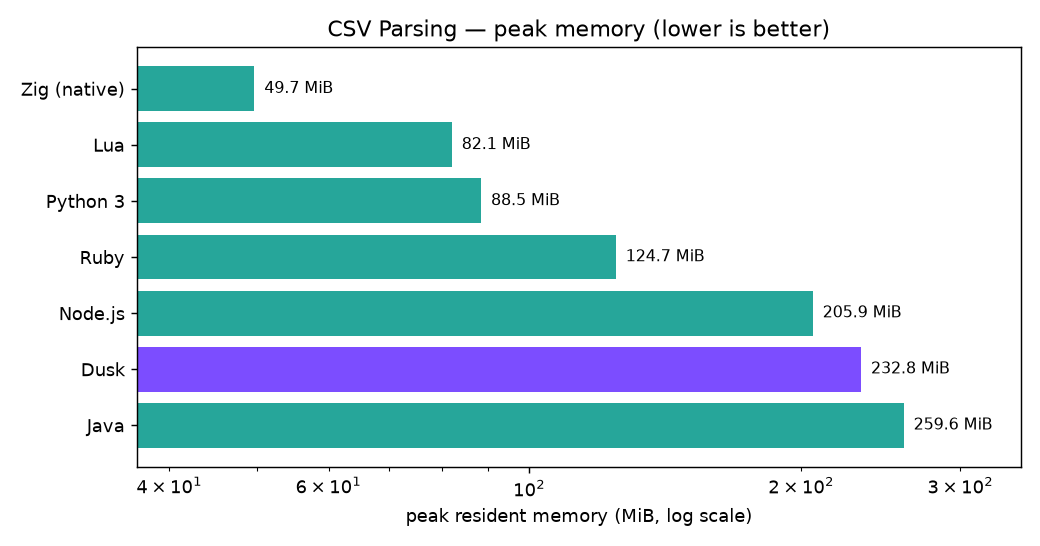
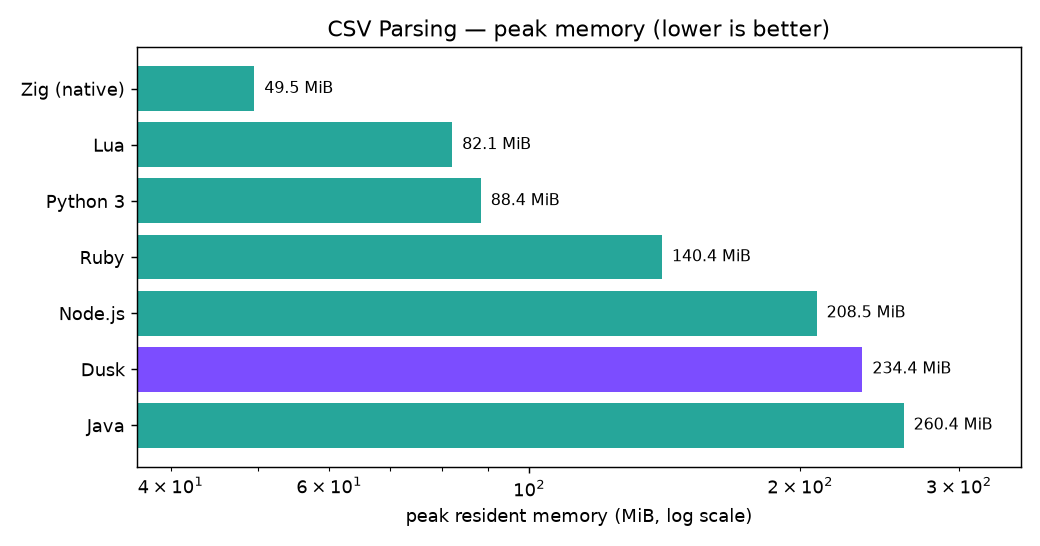
benchmark: regenerate report for v0.15

diff --git a/benchmarks/benchmark.md b/benchmarks/benchmark.md
@@ -7,33 +7,31 @@ Regenerate this file with:
 
 ```bash
 python3 run_benchmarks.py
+
 ```
-
-> **Note:** This benchmark generation script and the algorithms were AI-generated. I haven't deeply reviewed them, so they may contain errors.
-
 ## Machine
 
 | Field | Value |
 | --- | --- |
 | OS | Fedora Linux 44 (Workstation Edition) |
-| Kernel | Linux 7.2.13-200.fc44.x86_64 |
+| Kernel | Linux 7.3.3-200.fc44.x86_64 |
 | Architecture | x86_64 |
 | CPU | AMD Ryzen 5 5600X 6-Core Processor |
 | Cores / Threads | 6 cores / 12 threads |
 | CPU max | 4.65 GHz |
 | Memory | 31.2 GiB total |
-| Date | 2026-11-08 06:55 UTC |
+| Date | 2026-11-15 02:40 UTC |
 
 ## Language toolchains
 
 | Language | Version / mode |
 | --- | --- |
-| **Dusk** | **0.14.0 (git 827ef83) — built with Zig 0.16.0, ReleaseFast** |
+| **Dusk** | **0.15.0 (git 8fe5154) — built with Zig 0.16.0, ReleaseFast** |
 | Zig (native) | 0.16.0 — native baseline, build-exe -OReleaseFast |
-| Java | openjdk version 25.0.4.1 2026-08-18 — precompiled with javac, JVM startup included |
+| Java | openjdk version 25.0.5 2026-10-20 — precompiled with javac, JVM startup included |
 | Node.js | v22.23.1 |
-| Python 3 | Python 3.14.8 |
-| Ruby | ruby 4.0.7 (2026-09-15 revision 229531a6cf) +PRISM |
+| Python 3 | Python 3.14.10 |
+| Ruby | ruby 4.0.9 (2026-10-23 revision 3e93b23afc) +PRISM |
 | Lua | Lua 5.4.8  Copyright (C) 1994-2025 Lua.org, PUC-Rio |
 | hyperfine | hyperfine 1.20.0 |
 
@@ -55,13 +53,13 @@ Expected output: `9227465`
 
 | Language | Mean | Std dev | Min | Max | Relative | Peak mem |
 | --- | --- | --- | --- | --- | --- | --- |
-| Zig (native) | 20.2 ms | 504.7 µs | 19.3 ms | 22.4 ms | 1.00× | 0.7 MiB |
-| Java | 48.1 ms | 3.6 ms | 44.6 ms | 69.2 ms | 2.38× | 38.2 MiB |
-| Node.js | 161.4 ms | 7.5 ms | 149.4 ms | 180.8 ms | 7.98× | 58.7 MiB |
-| **Dusk** | **434.7 ms** | **7.5 ms** | **426.4 ms** | **443.9 ms** | **21.50×** | **1.7 MiB** |
-| Lua | 503.3 ms | 12.0 ms | 489.0 ms | 516.9 ms | 24.88× | 2.9 MiB |
-| Ruby | 702.9 ms | 23.8 ms | 678.8 ms | 742.4 ms | 34.75× | 14.4 MiB |
-| Python 3 | 940.9 ms | 34.5 ms | 903.9 ms | 990.9 ms | 46.52× | 9.2 MiB |
+| Zig (native) | 20.3 ms | 724.4 µs | 19.2 ms | 22.8 ms | 1.00× | 0.7 MiB |
+| Java | 44.1 ms | 1.6 ms | 41.1 ms | 48.6 ms | 2.17× | 38.1 MiB |
+| Node.js | 152.4 ms | 7.6 ms | 146.7 ms | 181.1 ms | 7.51× | 58.6 MiB |
+| **Dusk** | **408.5 ms** | **8.3 ms** | **396.3 ms** | **420.5 ms** | **20.13×** | **3.1 MiB** |
+| Lua | 468.0 ms | 5.9 ms | 460.9 ms | 477.3 ms | 23.07× | 2.8 MiB |
+| Ruby | 721.1 ms | 13.3 ms | 704.8 ms | 731.9 ms | 35.54× | 14.3 MiB |
+| Python 3 | 943.9 ms | 25.1 ms | 923.0 ms | 987.5 ms | 46.52× | 9.1 MiB |
 
 ![Recursive Fibonacci](assets/fib.png)
 
@@ -75,13 +73,13 @@ Expected output: `50049`
 
 | Language | Mean | Std dev | Min | Max | Relative | Peak mem |
 | --- | --- | --- | --- | --- | --- | --- |
-| Zig (native) | 6.8 ms | 595.7 µs | 5.8 ms | 9.0 ms | 1.00× | 3.8 MiB |
-| Java | 36.7 ms | 2.8 ms | 31.9 ms | 53.0 ms | 5.40× | 43.8 MiB |
-| Node.js | 168.4 ms | 8.8 ms | 160.1 ms | 196.8 ms | 24.73× | 85.2 MiB |
-| Lua | 272.8 ms | 7.1 ms | 259.6 ms | 282.5 ms | 40.06× | 21.8 MiB |
-| **Dusk** | **889.1 ms** | **74.8 ms** | **799.6 ms** | **969.2 ms** | **130.55×** | **17.1 MiB** |
-| Ruby | 1.544 s | 22.9 ms | 1.514 s | 1.578 s | 226.79× | 30.9 MiB |
-| Python 3 | 1.611 s | 19.2 ms | 1.580 s | 1.632 s | 236.57× | 34.7 MiB |
+| Zig (native) | 6.6 ms | 539.0 µs | 5.7 ms | 10.5 ms | 1.00× | 3.8 MiB |
+| Java | 32.1 ms | 1.7 ms | 30.3 ms | 43.9 ms | 4.86× | 43.8 MiB |
+| Node.js | 151.7 ms | 5.6 ms | 144.1 ms | 171.9 ms | 22.95× | 85.3 MiB |
+| Lua | 265.6 ms | 5.6 ms | 257.9 ms | 273.5 ms | 40.18× | 21.4 MiB |
+| **Dusk** | **508.4 ms** | **18.2 ms** | **488.1 ms** | **534.2 ms** | **76.94×** | **18.7 MiB** |
+| Ruby | 1.532 s | 18.1 ms | 1.513 s | 1.557 s | 231.88× | 30.7 MiB |
+| Python 3 | 1.618 s | 40.8 ms | 1.555 s | 1.660 s | 244.80× | 34.7 MiB |
 
 ![Particle System](assets/particles.png)
 
@@ -95,13 +93,13 @@ Expected output: `9592`
 
 | Language | Mean | Std dev | Min | Max | Relative | Peak mem |
 | --- | --- | --- | --- | --- | --- | --- |
-| Zig (native) | 774.0 µs | 163.7 µs | 609.7 µs | 2.0 ms | 1.00× | 0.8 MiB |
-| Lua | 5.7 ms | 520.3 µs | 4.9 ms | 8.5 ms | 7.40× | 4.7 MiB |
-| **Dusk** | **10.9 ms** | **587.3 µs** | **10.0 ms** | **12.8 ms** | **14.14×** | **3.2 MiB** |
-| Java | 18.3 ms | 1.1 ms | 16.6 ms | 24.5 ms | 23.69× | 38.1 MiB |
-| Python 3 | 25.4 ms | 2.0 ms | 22.9 ms | 36.6 ms | 32.88× | 10.0 MiB |
-| Ruby | 51.1 ms | 3.6 ms | 47.5 ms | 68.3 ms | 66.04× | 15.2 MiB |
-| Node.js | 82.5 ms | 4.5 ms | 76.0 ms | 101.1 ms | 106.56× | 59.5 MiB |
+| Zig (native) | 729.7 µs | 61.4 µs | 591.8 µs | 917.4 µs | 1.00× | 0.8 MiB |
+| Lua | 5.3 ms | 205.3 µs | 4.9 ms | 5.9 ms | 7.24× | 4.8 MiB |
+| **Dusk** | **9.1 ms** | **482.5 µs** | **8.3 ms** | **14.2 ms** | **12.48×** | **4.8 MiB** |
+| Java | 16.4 ms | 526.2 µs | 15.7 ms | 18.7 ms | 22.50× | 38.3 MiB |
+| Python 3 | 23.9 ms | 1.6 ms | 22.3 ms | 32.8 ms | 32.80× | 9.9 MiB |
+| Ruby | 47.6 ms | 2.4 ms | 45.0 ms | 55.8 ms | 65.17× | 15.2 MiB |
+| Node.js | 74.8 ms | 1.5 ms | 72.2 ms | 80.3 ms | 102.44× | 59.7 MiB |
 
 ![Sieve of Eratosthenes](assets/primes.png)
 
@@ -115,13 +113,13 @@ Expected output: `5001`
 
 | Language | Mean | Std dev | Min | Max | Relative | Peak mem |
 | --- | --- | --- | --- | --- | --- | --- |
-| Zig (native) | 727.0 µs | 206.1 µs | 556.7 µs | 2.0 ms | 1.00× | 0.7 MiB |
-| Lua | 3.2 ms | 386.5 µs | 2.8 ms | 5.5 ms | 4.43× | 3.1 MiB |
-| **Dusk** | **5.8 ms** | **585.0 µs** | **5.2 ms** | **10.5 ms** | **8.03×** | **1.7 MiB** |
-| Python 3 | 16.0 ms | 761.7 µs | 14.6 ms | 19.2 ms | 22.02× | 9.7 MiB |
-| Java | 19.0 ms | 1.7 ms | 16.6 ms | 27.4 ms | 26.12× | 38.1 MiB |
-| Ruby | 46.5 ms | 1.3 ms | 43.9 ms | 50.2 ms | 64.01× | 14.7 MiB |
-| Node.js | 83.7 ms | 3.6 ms | 76.0 ms | 89.5 ms | 115.12× | 58.8 MiB |
+| Zig (native) | 685.0 µs | 83.1 µs | 541.4 µs | 2.4 ms | 1.00× | 0.7 MiB |
+| Lua | 3.0 ms | 99.5 µs | 2.8 ms | 4.4 ms | 4.38× | 3.1 MiB |
+| **Dusk** | **5.0 ms** | **164.1 µs** | **4.6 ms** | **5.6 ms** | **7.31×** | **3.2 MiB** |
+| Python 3 | 14.5 ms | 280.9 µs | 14.0 ms | 15.5 ms | 21.10× | 9.5 MiB |
+| Java | 15.9 ms | 559.0 µs | 14.9 ms | 18.1 ms | 23.25× | 38.3 MiB |
+| Ruby | 41.1 ms | 944.7 µs | 40.2 ms | 45.7 ms | 59.97× | 14.4 MiB |
+| Node.js | 72.3 ms | 962.7 µs | 70.7 ms | 74.4 ms | 105.60× | 58.9 MiB |
 
 ![QuickSort](assets/quicksort.png)
 
@@ -135,13 +133,13 @@ Expected output: `141554306`
 
 | Language | Mean | Std dev | Min | Max | Relative | Peak mem |
 | --- | --- | --- | --- | --- | --- | --- |
-| Zig (native) | 313.7 ms | 1.1 ms | 312.2 ms | 316.1 ms | 1.00× | 0.7 MiB |
-| Java | 338.2 ms | 945.0 µs | 336.7 ms | 339.5 ms | 1.08× | 38.6 MiB |
-| Node.js | 399.3 ms | 5.1 ms | 394.2 ms | 408.8 ms | 1.27× | 60.8 MiB |
-| Lua | 4.379 s | 75.0 ms | 4.250 s | 4.435 s | 13.96× | 3.0 MiB |
-| Ruby | 10.053 s | 131.6 ms | 9.923 s | 10.220 s | 32.05× | 14.5 MiB |
-| **Dusk** | **10.703 s** | **186.5 ms** | **10.508 s** | **10.983 s** | **34.12×** | **1.7 MiB** |
-| Python 3 | 39.843 s | 2.531 s | 37.275 s | 42.692 s | 127.01× | 9.4 MiB |
+| Zig (native) | 308.7 ms | 1.1 ms | 306.6 ms | 309.8 ms | 1.00× | 0.7 MiB |
+| Java | 335.1 ms | 3.6 ms | 330.6 ms | 342.6 ms | 1.09× | 38.7 MiB |
+| Node.js | 400.7 ms | 5.8 ms | 392.9 ms | 409.1 ms | 1.30× | 60.9 MiB |
+| Lua | 4.384 s | 71.1 ms | 4.284 s | 4.471 s | 14.20× | 2.8 MiB |
+| **Dusk** | **9.464 s** | **690.2 ms** | **9.082 s** | **10.690 s** | **30.66×** | **3.2 MiB** |
+| Ruby | 9.765 s | 62.6 ms | 9.662 s | 9.834 s | 31.63× | 14.3 MiB |
+| Python 3 | 40.941 s | 3.882 s | 38.254 s | 47.701 s | 132.63× | 9.3 MiB |
 
 ![Mandelbrot](assets/mandelbrot.png)
 
@@ -155,13 +153,13 @@ Expected output: `73037032`
 
 | Language | Mean | Std dev | Min | Max | Relative | Peak mem |
 | --- | --- | --- | --- | --- | --- | --- |
-| Zig (native) | 88.7 ms | 2.2 ms | 85.5 ms | 92.0 ms | 1.00× | 0.7 MiB |
-| **Dusk** | **268.2 ms** | **2.6 ms** | **262.7 ms** | **271.3 ms** | **3.02×** | **3.3 MiB** |
-| Java | 314.7 ms | 6.4 ms | 307.2 ms | 325.3 ms | 3.55× | 286.4 MiB |
-| Node.js | 455.5 ms | 7.1 ms | 448.6 ms | 466.7 ms | 5.13× | 91.0 MiB |
-| Python 3 | 585.0 ms | 14.3 ms | 572.0 ms | 608.1 ms | 6.60× | 9.0 MiB |
-| Ruby | 904.7 ms | 4.9 ms | 899.9 ms | 912.9 ms | 10.20× | 14.6 MiB |
-| Lua | 1.147 s | 18.8 ms | 1.122 s | 1.171 s | 12.93× | 2.7 MiB |
+| Zig (native) | 87.2 ms | 2.9 ms | 84.8 ms | 99.7 ms | 1.00× | 0.7 MiB |
+| **Dusk** | **278.7 ms** | **2.4 ms** | **275.1 ms** | **283.1 ms** | **3.20×** | **5.1 MiB** |
+| Java | 312.2 ms | 8.2 ms | 302.1 ms | 324.1 ms | 3.58× | 285.8 MiB |
+| Node.js | 432.3 ms | 1.5 ms | 430.3 ms | 434.8 ms | 4.96× | 91.2 MiB |
+| Python 3 | 571.2 ms | 9.5 ms | 556.0 ms | 580.7 ms | 6.55× | 9.0 MiB |
+| Ruby | 913.8 ms | 6.7 ms | 907.6 ms | 924.3 ms | 10.48× | 14.3 MiB |
+| Lua | 1.134 s | 15.5 ms | 1.111 s | 1.154 s | 13.00× | 2.8 MiB |
 
 ![Strings](assets/strings.png)
 
@@ -175,13 +173,13 @@ Expected output: `400000`
 
 | Language | Mean | Std dev | Min | Max | Relative | Peak mem |
 | --- | --- | --- | --- | --- | --- | --- |
-| Node.js | 94.5 ms | 10.5 ms | 88.6 ms | 138.1 ms | 0.14× | 70.9 MiB |
-| Zig (native) | 664.8 ms | 10.1 ms | 654.9 ms | 680.6 ms | 1.00× | 1.2 MiB |
-| **Dusk** | **1.144 s** | **17.5 ms** | **1.122 s** | **1.171 s** | **1.72×** | **3.6 MiB** |
-| Java | 3.400 s | 95.0 ms | 3.296 s | 3.528 s | 5.11× | 568.9 MiB |
-| Python 3 | 3.487 s | 78.7 ms | 3.413 s | 3.582 s | 5.25× | 10.2 MiB |
-| Ruby | 3.700 s | 87.7 ms | 3.551 s | 3.759 s | 5.57× | 78.9 MiB |
-| Lua | 4.929 s | 82.0 ms | 4.848 s | 5.066 s | 7.41× | 4.9 MiB |
+| Node.js | 87.6 ms | 1.2 ms | 85.5 ms | 91.6 ms | 0.14× | 70.6 MiB |
+| Zig (native) | 640.2 ms | 4.8 ms | 635.1 ms | 647.0 ms | 1.00× | 1.2 MiB |
+| **Dusk** | **1.111 s** | **14.6 ms** | **1.101 s** | **1.137 s** | **1.74×** | **5.2 MiB** |
+| Java | 3.256 s | 13.7 ms | 3.240 s | 3.273 s | 5.09× | 717.1 MiB |
+| Ruby | 3.286 s | 84.7 ms | 3.201 s | 3.374 s | 5.13× | 78.5 MiB |
+| Python 3 | 3.323 s | 31.0 ms | 3.295 s | 3.362 s | 5.19× | 10.1 MiB |
+| Lua | 4.752 s | 34.0 ms | 4.705 s | 4.798 s | 7.42× | 5.0 MiB |
 
 ![String Concatenation](assets/concat.png)
 
@@ -195,13 +193,13 @@ Expected output: `125250000000`
 
 | Language | Mean | Std dev | Min | Max | Relative | Peak mem |
 | --- | --- | --- | --- | --- | --- | --- |
-| Zig (native) | 53.3 ms | 837.5 µs | 51.9 ms | 56.7 ms | 1.00× | 49.7 MiB |
-| Java | 238.1 ms | 5.6 ms | 226.4 ms | 249.2 ms | 4.47× | 259.6 MiB |
-| Node.js | 339.0 ms | 12.1 ms | 329.7 ms | 364.1 ms | 6.36× | 205.9 MiB |
-| Python 3 | 360.8 ms | 10.0 ms | 348.9 ms | 381.8 ms | 6.77× | 88.5 MiB |
-| **Dusk** | **413.0 ms** | **4.4 ms** | **409.0 ms** | **422.3 ms** | **7.75×** | **232.8 MiB** |
-| Lua | 547.8 ms | 25.0 ms | 516.4 ms | 579.6 ms | 10.28× | 82.1 MiB |
-| Ruby | 564.2 ms | 9.3 ms | 550.6 ms | 574.3 ms | 10.59× | 124.7 MiB |
+| Zig (native) | 52.3 ms | 656.2 µs | 51.4 ms | 54.3 ms | 1.00× | 49.5 MiB |
+| Java | 228.3 ms | 3.6 ms | 219.6 ms | 233.3 ms | 4.36× | 260.4 MiB |
+| Node.js | 331.4 ms | 4.4 ms | 324.3 ms | 337.8 ms | 6.33× | 208.5 MiB |
+| Python 3 | 347.1 ms | 5.8 ms | 338.7 ms | 354.2 ms | 6.63× | 88.4 MiB |
+| **Dusk** | **412.5 ms** | **4.7 ms** | **406.4 ms** | **419.0 ms** | **7.88×** | **234.4 MiB** |
+| Lua | 487.7 ms | 5.1 ms | 480.3 ms | 493.5 ms | 9.32× | 82.1 MiB |
+| Ruby | 557.5 ms | 12.1 ms | 544.4 ms | 569.2 ms | 10.65× | 140.4 MiB |
 
 ![CSV Parsing](assets/parse.png)
 
